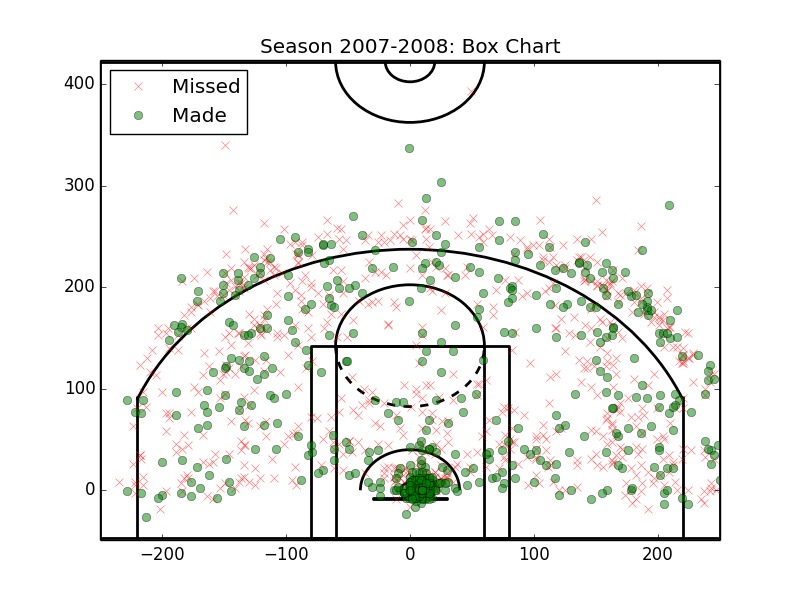
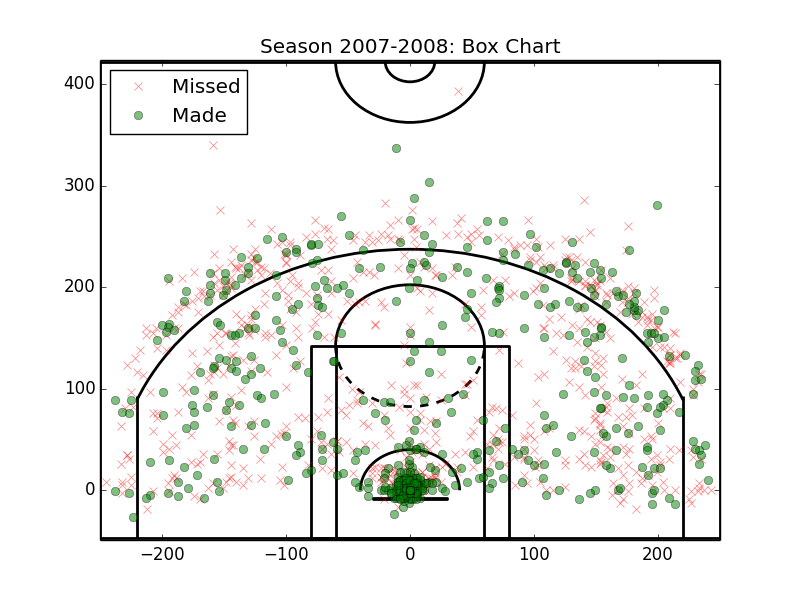
Updated analysis code and results images added

diff --git a/LBJ_ShootingAnalysis/Analysis.py b/LBJ_ShootingAnalysis/Analysis.py
@@ -66,14 +66,14 @@ for x1 in lines2008:
     if outcome1[n1]=='Made':
         xpos_made1[made1] = x1.split()[3]
         ypos_made1[made1] = x1.split()[1]
-        xpos_made1[made1] = (-1.0)*(xpos_made1[made1]-250.0)
+        xpos_made1[made1] = (-1.0)*(xpos_made1[made1]-240.0)
         ypos_made1[made1] = ypos_made1[made1]-50.0
         made1 = made1 + 1
     #only missed shots
     if outcome1[n1]=='Missed':
         xpos_miss1[miss1]= x1.split()[3]
         ypos_miss1[miss1] = x1.split()[1]
-        xpos_miss1[miss1] = (-1.0)*(xpos_miss1[miss1]-250.0)
+        xpos_miss1[miss1] = (-1.0)*(xpos_miss1[miss1]-240.0)
         ypos_miss1[miss1] = ypos_miss1[miss1]-50.0
         miss1 = miss1 + 1
     #good for keeping trac of outcome loop
@@ -86,14 +86,14 @@ for x2 in lines2013:
     if outcome2[n2]=='Made':
         xpos_made2[made2] = x2.split()[3]
         ypos_made2[made2] = x2.split()[1]
-        xpos_made2[made2] = (-1.0)*(xpos_made2[made2]-250.0)
+        xpos_made2[made2] = (-1.0)*(xpos_made2[made2]-240.0)
         ypos_made2[made2] = ypos_made2[made2]-50.0
         made2 = made2 + 1
     #only missed shots
     if outcome2[n2]=='Missed':
         xpos_miss2[miss2]= x2.split()[3]
         ypos_miss2[miss2] = x2.split()[1]
-        xpos_miss2[miss2] = (-1.0)*(xpos_miss2[miss2]-250.0)
+        xpos_miss2[miss2] = (-1.0)*(xpos_miss2[miss2]-240.0)
         ypos_miss2[miss2] = ypos_miss2[miss2]-50.0
         miss2 = miss2 + 1
     #good for keeping trac of outcome loop
@@ -106,14 +106,14 @@ for x3 in lines2016:
     if outcome3[n3]=='Made':
         xpos_made3[made3] = x3.split()[3]
         ypos_made3[made3] = x3.split()[1]
-        xpos_made3[made3] = (-1.0)*(xpos_made3[made3]-250.0)
+        xpos_made3[made3] = (-1.0)*(xpos_made3[made3]-235.0)
         ypos_made3[made3] = ypos_made3[made3]-50.0
         made3 = made3 + 1
     #only missed shots
     if outcome3[n3]=='Missed':
         xpos_miss3[miss3]= x3.split()[3]
         ypos_miss3[miss3] = x3.split()[1]
-        xpos_miss3[miss3] = (-1.0)*(xpos_miss3[miss3]-250.0)
+        xpos_miss3[miss3] = (-1.0)*(xpos_miss3[miss3]-235.0)
         ypos_miss3[miss3] = ypos_miss3[miss3]-50.0
         miss3 = miss3 + 1
     #good for keeping trac of outcome loop
